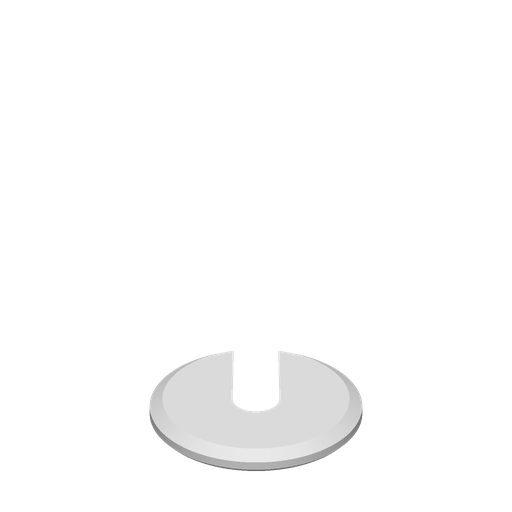
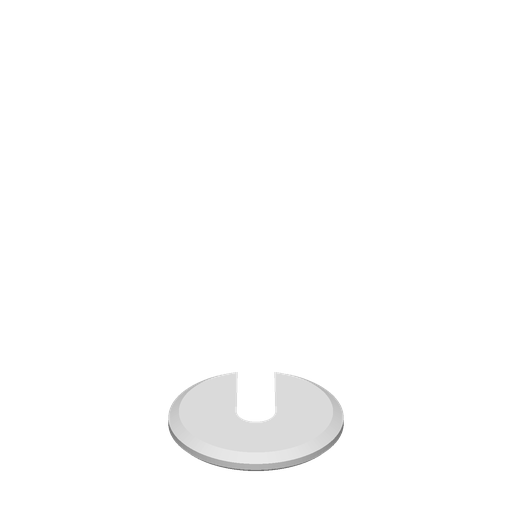
Sample shop: wide arched saddle for the headphone stand hanger
The hanger read as a small flared cup. It is now a 110 mm arched saddle bar
(32 mm deep, 45-degree chamfered underside) on a thin 45-degree V truss with
triangular windows, plus the peg into the post. Every downward face is at most
45 degrees from vertical except the peg end on the bed, so it still prints
standing exactly as assembled with no supports.

diff --git a/src-tauri/sample_shop/make_models.py b/src-tauri/sample_shop/make_models.py
@@ -132,13 +132,59 @@ def headphone_stand():
     base = revolve([(0, 0), (48, 0), (50, 2), (50, 6), (44, 10), (0, 10)], 120)
     post = (Manifold.cylinder(150, 11, 8, 64).translate((0, 0, 10))
             - Manifold.cylinder(152, 7, 4.5, 48).translate((0, 0, 9)))
-    # Hanger: a peg into the post's bore, flaring at ~45 degrees into a curved saddle (a
-    # cap cut from a circle), so it prints standing on the peg with no supports.
-    cap = CrossSection.circle(46, 128) ^ poly([(-60, 32), (60, 32), (60, 60), (-60, 60)])
-    cap = cap.extrude(26).translate((0, 0, -13)).rotate((90, 0, 0)).translate((0, 0, 185 - 32))
-    collar = Manifold.cylinder(1, 8.5, 8.5, 48).translate((0, 0, 160))
-    peg = Manifold.cylinder(21, 4.3, 4.3, 32).translate((0, 0, 140))
-    hanger = (Manifold.batch_hull([collar, cap]) + cap + peg).rotate((0, 0, 90))
+    # Hanger: a wide arched saddle bar (SW mm across, SD deep) on a thin V web that widens
+    # upward at 45 degrees from a peg in the post's bore. The bar's underside is chamfered at
+    # 45 degrees down to the web, and the web's diamond cut-outs have 45-degree roofs, so the
+    # hanger prints standing exactly as assembled with no supports.
+    SW, SD, web, top, arc_r, z0, r0 = 110, 32, 10, 239, 200, 163, 4.3
+    half = SW / 2
+    bar, chamfer = 6, (SD - web) / 2              # bar thickness at full depth, chamfer height
+
+    def arc_z(x):
+        return top - (arc_r - math.sqrt(arc_r ** 2 - x ** 2))
+
+    xs = [half - i * SW / 40 for i in range(41)]
+    pieces = []
+    for xa, xb in zip(xs, xs[1:]):
+        pts = []
+        for x in (xa, xb):
+            z = arc_z(x)
+            pts += [(x, y, z) for y in (-SD / 2, SD / 2)]
+            pts += [(x, y, z - bar) for y in (-SD / 2, SD / 2)]
+            pts += [(x, y, z - bar - chamfer) for y in (-web / 2, web / 2)]
+        pieces.append(Manifold.hull_points(pts))
+    saddle_bar = Manifold.batch_boolean(pieces, OpType.Add)
+    # The web fills from the 45-degree V up into the bar (the bar's underside stays above it).
+    assert arc_z(half) - bar - chamfer >= z0 + (half - r0), "saddle bar ends would overhang"
+    outline = [(-r0, z0), (r0, z0), (half, z0 + half - r0)] + \
+        [(x, arc_z(x) - bar) for x in xs] + [(-half, z0 + half - r0)]
+
+    def diamond(cx, cz, k):
+        return poly([(cx, cz - k), (cx + k, cz), (cx, cz + k), (cx - k, cz)])
+
+    # Open truss: a centre stem and two 45-degree arms, with triangular windows between them
+    # whose roofs slope at 45 degrees (no flat ceilings to bridge).
+    strut, stem = 9 * math.sqrt(2), 5
+    windows = []
+    for sx in (1, -1):
+        x0 = stem
+        z_lo = z0 - r0 + x0 + strut                  # top of the arm at x0
+        z_hi = arc_z(x0) - bar - chamfer - 4          # just under the bar
+        apex = (z_hi - z_lo) / 2
+        windows.append(poly([(sx * x0, z_lo), (sx * x0, z_hi), (sx * (x0 + apex), z_lo + apex)]))
+        # Outer window between the arm and the bar, beyond the first one's roof.
+        xc = x0 + apex + 9
+        lo, hi = z0 - r0 + xc + strut + 1, arc_z(xc) - bar - chamfer - 3
+        if hi - lo > 14:  # only when there is room for a window that reads as one
+            k = (hi - lo) / 2
+            windows.append(diamond(sx * xc, lo + k, k))
+    face = poly(outline) - CrossSection.compose(windows)
+    web_m = face.extrude(web).translate((0, 0, -web / 2)).rotate((90, 0, 0))
+    peg = Manifold.cylinder(20, r0, r0, 32).translate((0, 0, 140))
+    # Short neck from the round peg to the web's rectangular foot (well under 45 degrees).
+    neck = Manifold.batch_hull([Manifold.cylinder(0.01, r0, r0, 32).translate((0, 0, 160)),
+                                Manifold.cube((2 * r0, web, 0.01)).translate((-r0, -web / 2, z0))])
+    hanger = (saddle_bar + web_m + neck + peg).rotate((0, 0, 90))
     return [
         ("base", "Base", "sample-part-hp-base", base),
         ("post", "Post", "sample-part-hp-post", post),
